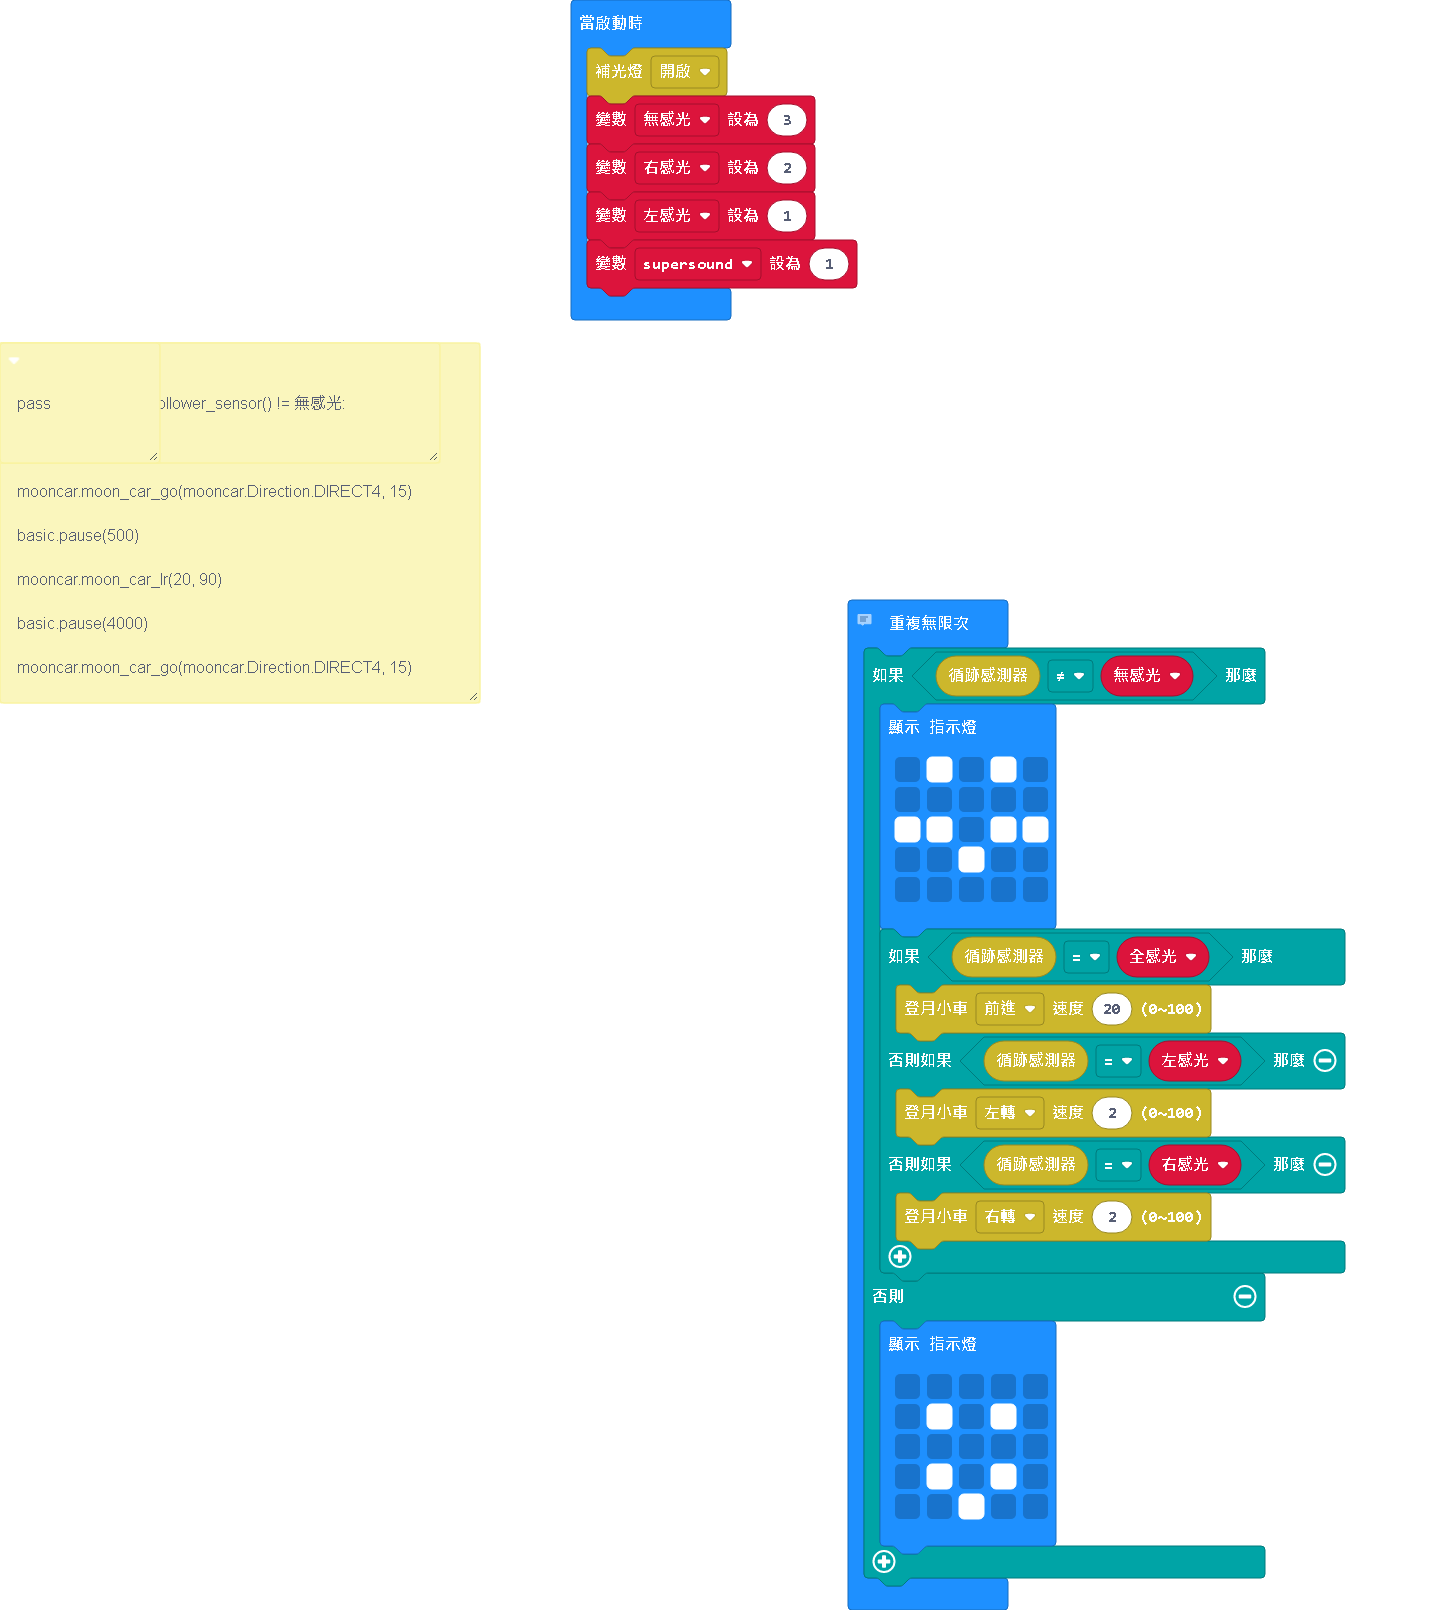
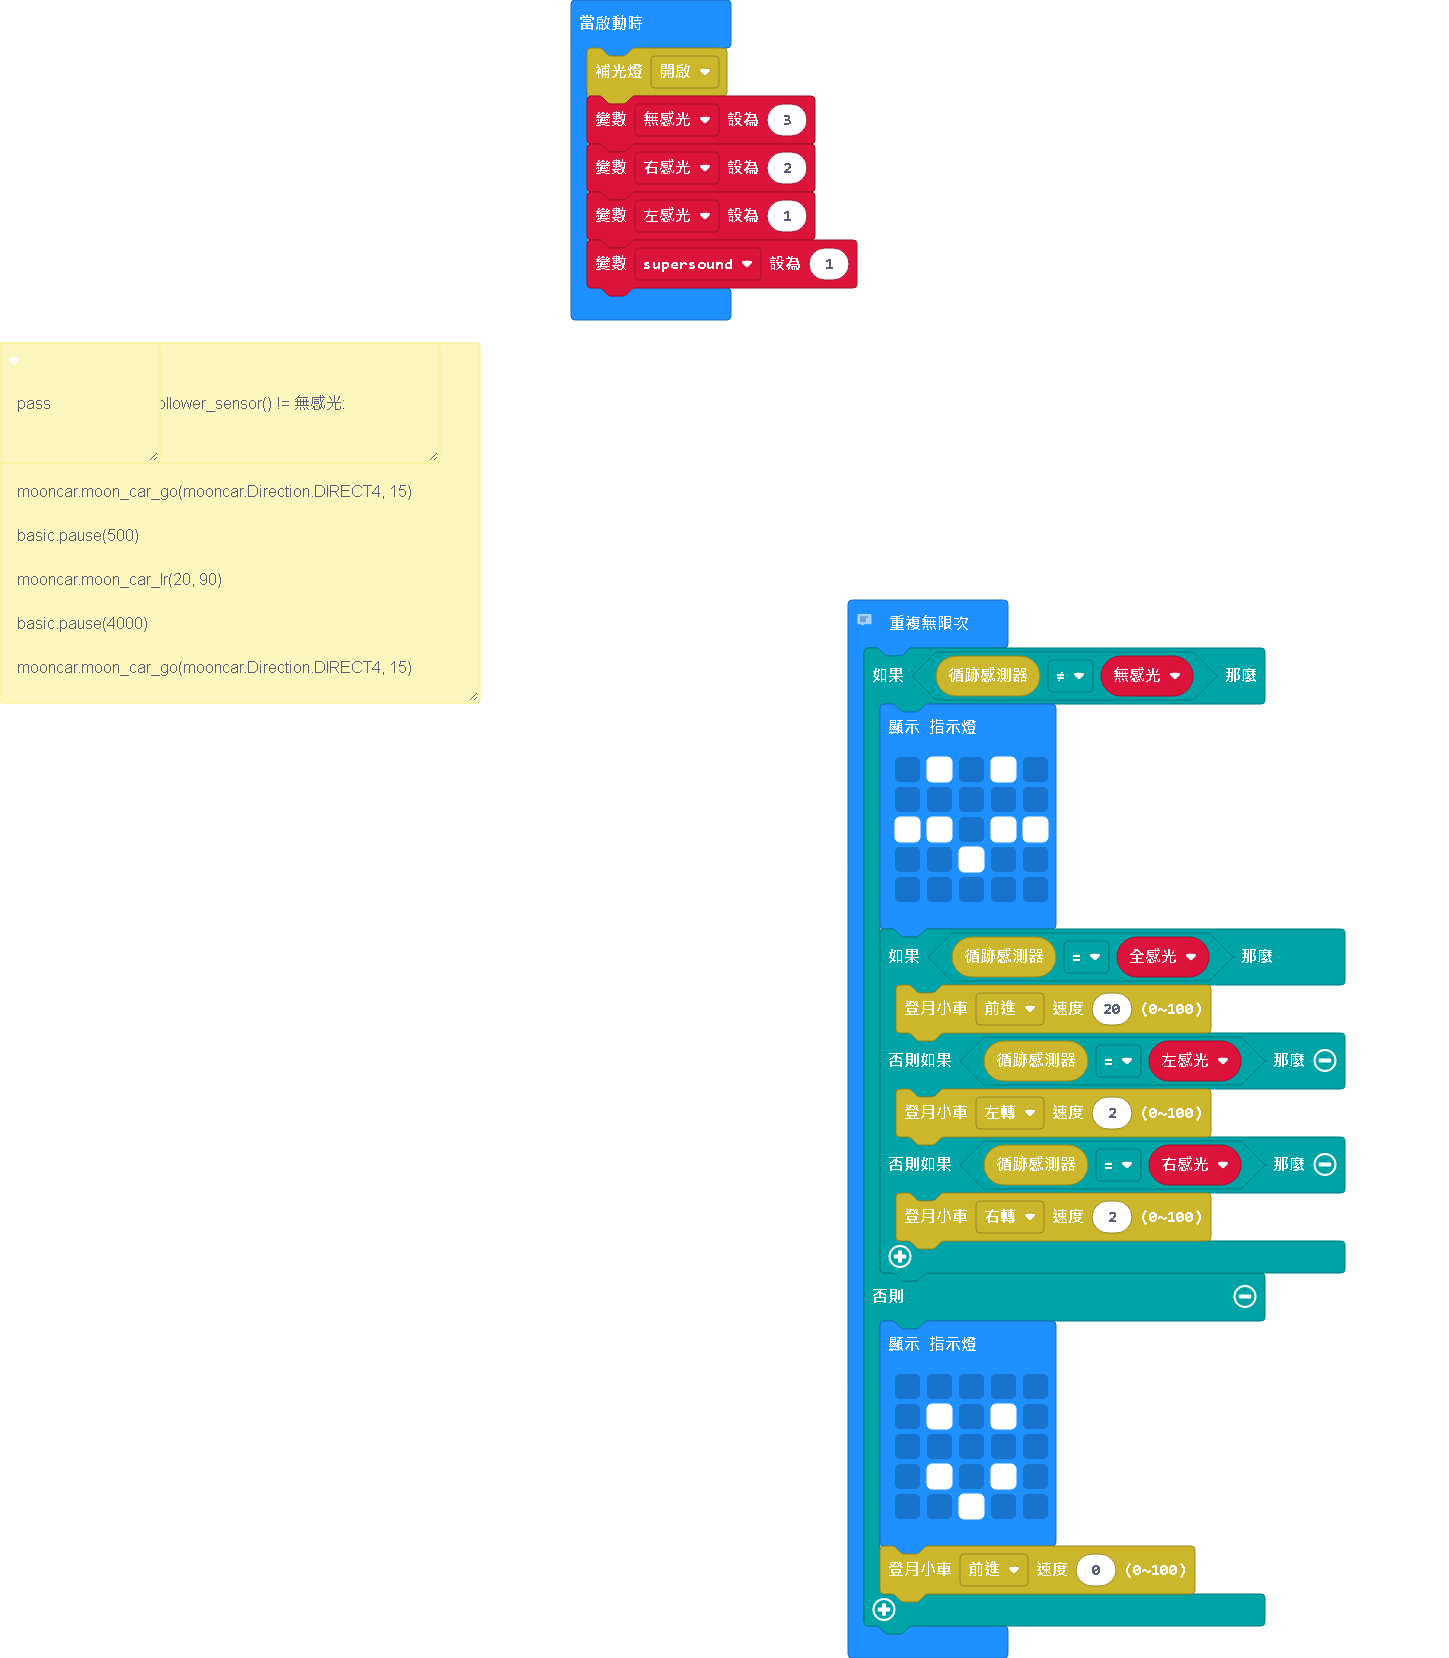
更新 main.blocks, main.ts

diff --git a/main.ts b/main.ts
@@ -74,5 +74,6 @@ basic.forever(function () {
             . # . # .
             . . # . .
             `)
+        mooncar.MoonCarGo(mooncar.Direction.direct1, 0)
     }
 })
